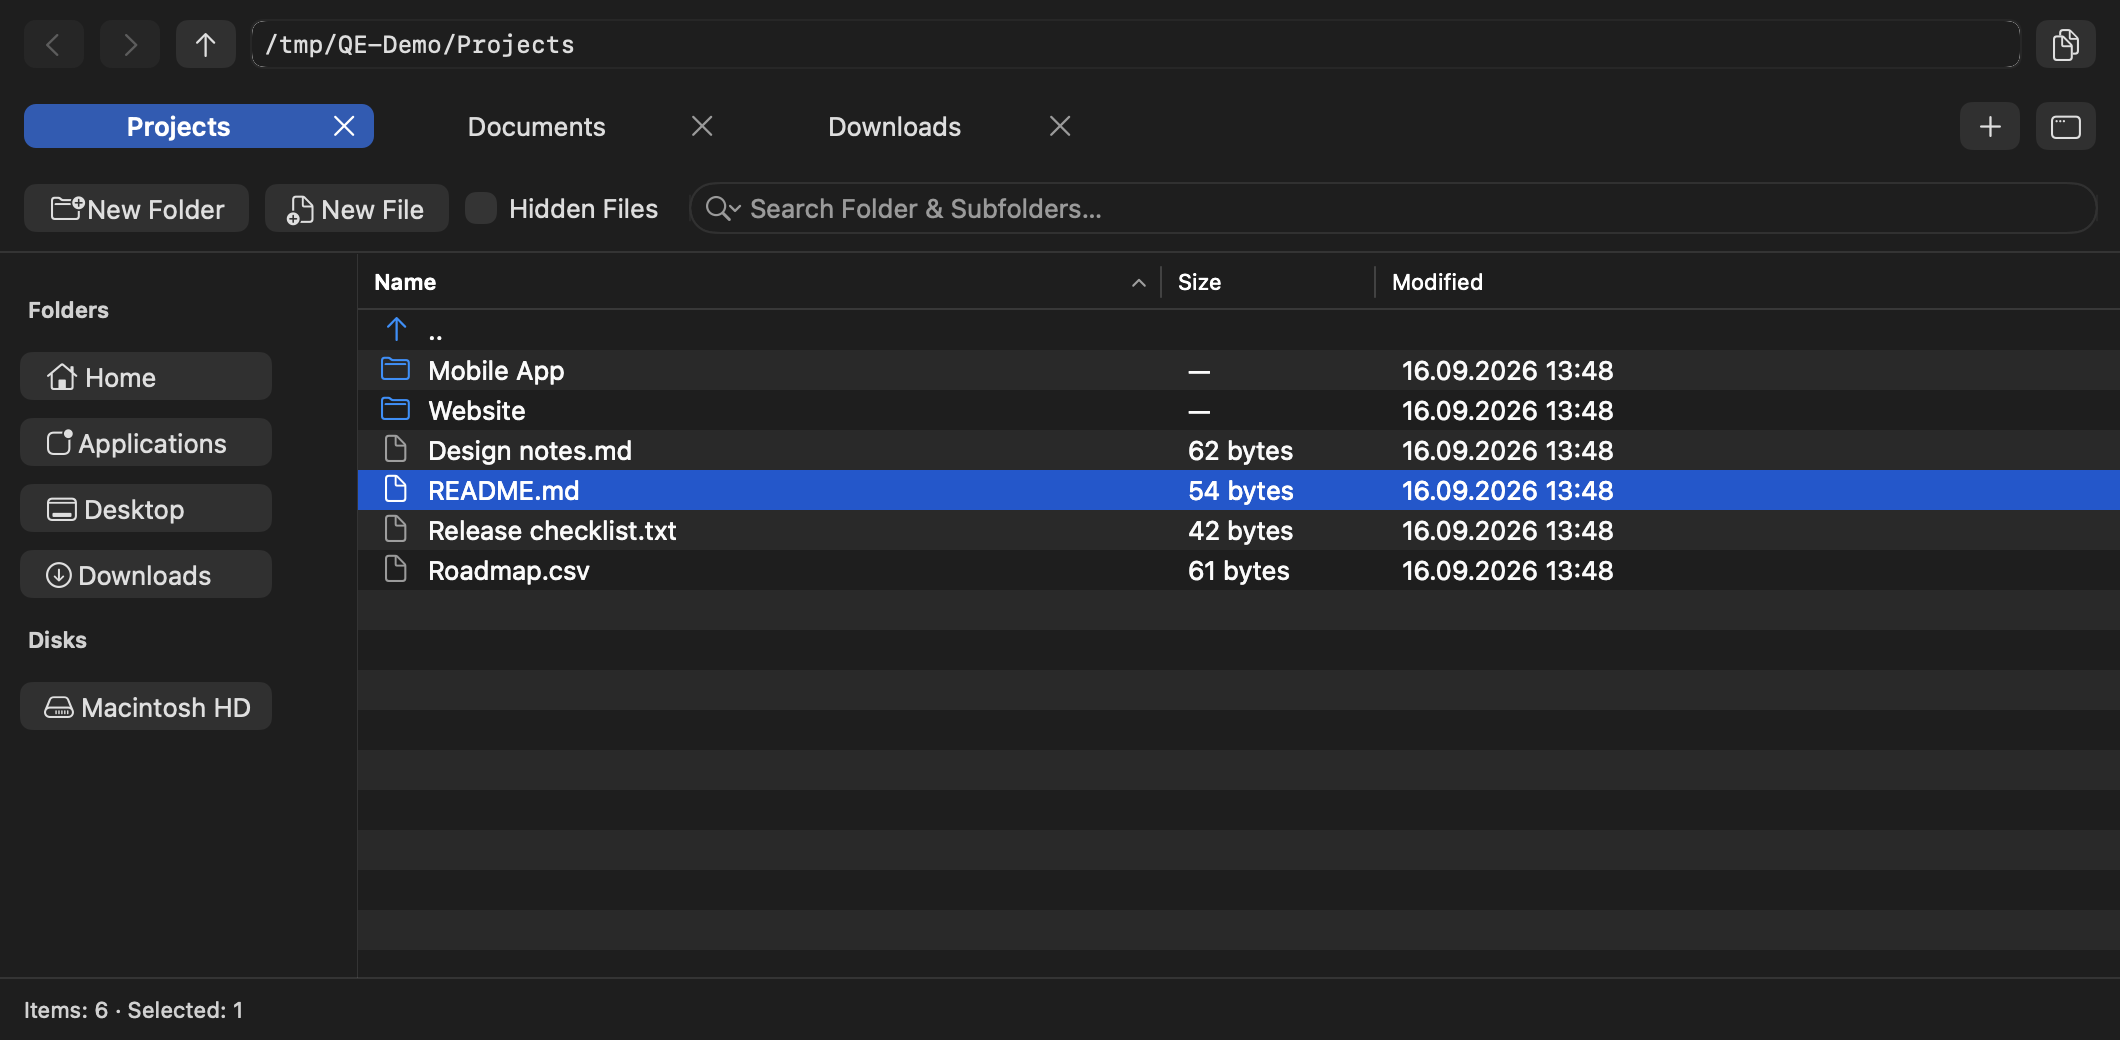
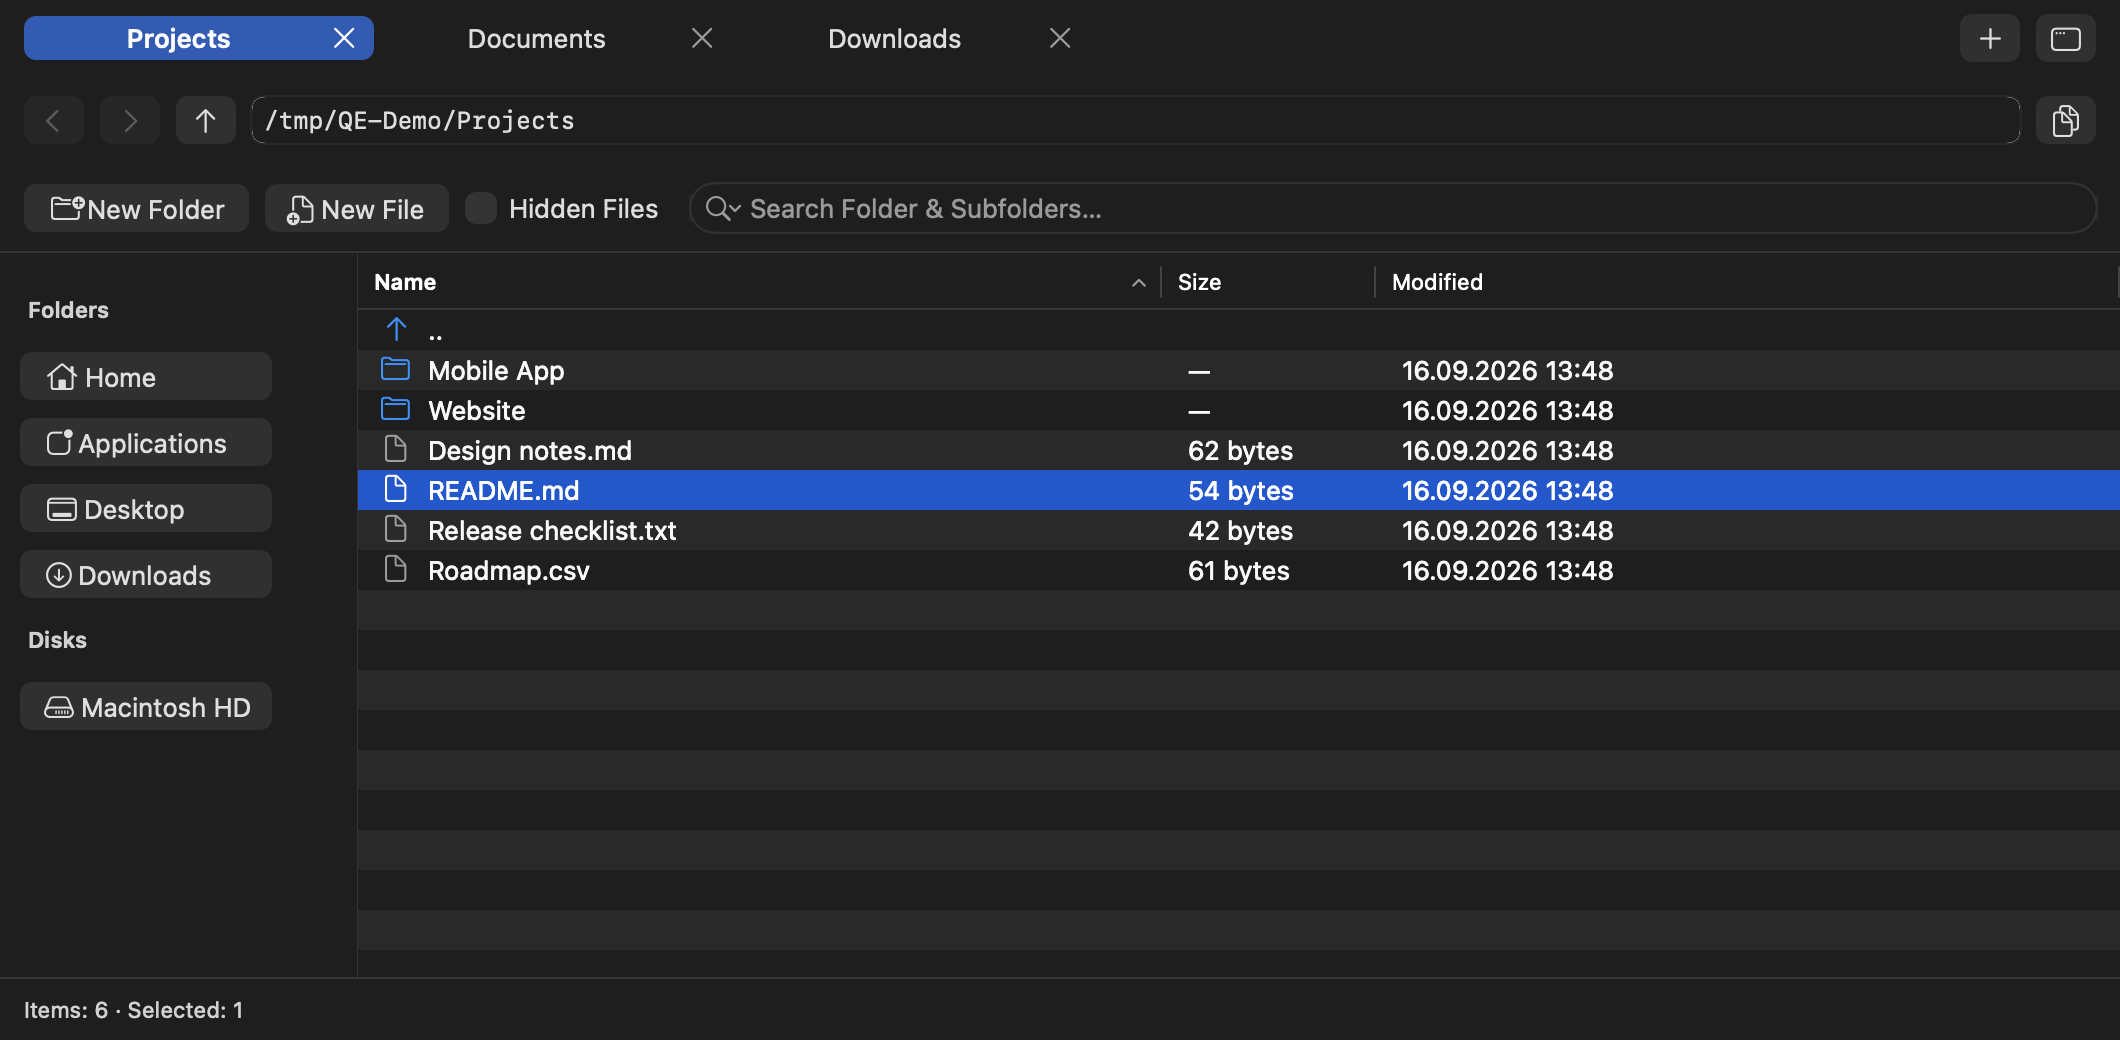
feat: add keyboard navigation and reorder tabs

diff --git a/Sources/QE/UICheckKeyboard.swift b/Sources/QE/UICheckKeyboard.swift
@@ -1,0 +1,87 @@
+#if DEBUG
+import AppKit
+
+extension UICheck {
+    func pressKey(_ key: String, code: UInt16, modifiers: NSEvent.ModifierFlags = [], in pane: BrowserController) {
+        let window = pane.window!
+        let event = NSEvent.keyEvent(with: .keyDown, location: .zero, modifierFlags: modifiers,
+            timestamp: 0, windowNumber: window.windowNumber, context: nil,
+            characters: key, charactersIgnoringModifiers: key, isARepeat: false, keyCode: code)!
+        window.sendEvent(event)
+    }
+
+    func checkKeyboard(_ right: BrowserController, directory: URL) {
+        let window = browser.window!
+        let owner = browser.owner!
+        window.makeFirstResponder(browser.table)
+        let selection = browser.table.selectedRowIndexes
+        pressKey("\t", code: 48, in: browser)
+        expect(owner.activePane === right && window.firstResponder === right.table, "Tab did not focus right pane")
+        expect(NSApp.target(forAction: #selector(BrowserController.copyTo(_:))) as? BrowserController === right,
+               "Tab did not redirect file commands")
+        expect((right.tabsStack.arrangedSubviews.first as? TabButton)?.focusedPane == true &&
+               (browser.tabsStack.arrangedSubviews.first as? TabButton)?.focusedPane == false,
+               "Tab did not update active pane highlighting")
+        pressKey("\t", code: 48, in: right)
+        expect(owner.activePane === browser && window.firstResponder === browser.table, "Tab did not return to left pane")
+        expect(browser.table.selectedRowIndexes == selection, "Tab lost file selection")
+        browser.focusSearch(nil)
+        pressKey("\t", code: 48, in: browser)
+        expect(owner.activePane === browser, "Tab in search switched panes")
+
+        // Exercise every digit in both panes, with distinct tab IDs and one different path.
+        let keys: [(String, UInt16)] = [("1", 18), ("2", 19), ("3", 20), ("4", 21), ("5", 23),
+                                      ("6", 22), ("7", 26), ("8", 28), ("9", 25), ("0", 29)]
+        for pane in [browser, right] {
+            window.makeFirstResponder(pane.table)
+            let original = pane.tabs
+            pane.tabs += (1...9).map { BrowserTab($0 == 9 ? directory.appendingPathComponent("Documents") : pane.current) }
+            pane.rebuildTabs()
+            for (index, key) in keys.enumerated() {
+                pressKey(key.0, code: key.1, modifiers: .control, in: pane)
+                expect(pane.active == index && owner.activePane === pane, "Control + \(key.0) chose wrong tab or pane")
+                expect(pane.otherPane?.active == 0, "Tab shortcut changed the other pane")
+            }
+            expect(pane.current == directory.appendingPathComponent("Documents"), "Control + 0 did not navigate to tenth tab")
+            pane.tabs = original
+            pane.active = 0
+            pane.rebuildTabs()
+            pane.reload()
+            pressKey("0", code: 29, modifiers: .control, in: pane)
+            expect(pane.active == 0 && pane.tabs.count == 1, "Missing tab shortcut changed tabs")
+        }
+        browser.focusPath(nil)
+        let editor = window.firstResponder
+        pressKey("1", code: 18, modifiers: .control, in: browser)
+        expect(window.firstResponder === editor, "Current tab shortcut stole editor focus")
+        window.makeFirstResponder(browser.table)
+        waitUntil({ !self.browser.isLoading && !right.isLoading }) {
+            self.browser.searchField.stringValue = "Notes"
+            self.browser.startSearch(nil)
+            self.waitUntil({ self.browser.search == nil }) {
+                self.pressKey("1", code: 18, modifiers: .control, in: self.browser)
+                self.pressKey("0", code: 29, modifiers: .control, in: self.browser)
+                self.expect(self.browser.isSearch && self.browser.searchField.stringValue == "Notes",
+                            "Current or missing tab shortcut cleared search")
+                self.browser.navigate(directory)
+                self.waitUntil({ !self.browser.isLoading }) {
+                    self.browser.table.deselectAll(nil)
+                    self.pressKey("\r", code: 36, in: self.browser)
+                    self.expect(self.browser.current == directory && NSApp.modalWindow == nil, "Return with no selection changed directory or opened dialog")
+                    self.selectFixture("Photos", in: self.browser)
+                    self.pressKey("\r", code: 36, modifiers: .capsLock, in: self.browser)
+                    self.waitUntil({ !self.browser.isLoading }) {
+                        self.expect(self.browser.current == directory.appendingPathComponent("Photos"), "Return did not open selected folder")
+                        self.browser.table.selectRowIndexes(IndexSet(integer: 0), byExtendingSelection: false)
+                        self.pressKey("\u{3}", code: 76, modifiers: .numericPad, in: self.browser)
+                        self.waitUntil({ !self.browser.isLoading }) {
+                            self.expect(self.browser.current == directory, "Keypad Enter did not open parent row")
+                            self.checkFunctionKeys(right, directory: directory)
+                        }
+                    }
+                }
+            }
+        }
+    }
+}
+#endif

diff --git a/Sources/QE/BrowserController.swift b/Sources/QE/BrowserController.swift
@@ -154,7 +154,6 @@ final class BrowserController: NSViewController, NSTableViewDataSource, NSTableV
         table.style = .plain
         table.target = self; table.doubleAction = #selector(openSelected)
         table.openSelection = { [weak self] in self?.openSelected(nil) }
-        table.renameSelection = { [weak self] in self?.renameSelected(nil) }
         table.goUp = { [weak self] in self?.up() }
         table.setAccessibilityLabel("Files")
         for (key, title, width) in [("name", "Name", 390.0), ("size", "Size", 95.0), ("date", "Modified", 145.0), ("parent", "Folder", 250.0)] {
@@ -201,7 +200,7 @@ final class BrowserController: NSViewController, NSTableViewDataSource, NSTableV
         let footer = inset(horizontal([status, progress, cancelButton]), y: 5)
         let root = WindowBackground(); root.translatesAutoresizingMaskIntoConstraints = false
         let topLine = divider(), bottomLine = divider()
-        let rows = [navigation, tabRow, actions, topLine, body, bottomLine, footer]
+        let rows = [tabRow, navigation, actions, topLine, body, bottomLine, footer]
         for (index, view) in rows.enumerated() {
             view.translatesAutoresizingMaskIntoConstraints = false; root.addSubview(view)
             view.leadingAnchor.constraint(equalTo: root.leadingAnchor).isActive = true

diff --git a/Sources/QE/UICheck.swift b/Sources/QE/UICheck.swift
@@ -385,7 +385,13 @@ final class UICheck {
                     let second = self.browser.current.appendingPathComponent("another.TXT")
                     do { try Data("fixture".utf8).write(to: second) }
                     catch { self.failures.append(error.localizedDescription); self.finish(); return }
-                    self.browser.openFile(second)
+                    self.browser.reload()
+                    self.waitUntil({ !self.browser.isLoading }) {
+                        self.selectFixture(second.lastPathComponent, in: self.browser)
+                        self.browser.window?.makeKeyAndOrderFront(nil)
+                        self.browser.window?.makeFirstResponder(self.browser.table)
+                        self.pressKey("\r", code: 36, in: self.browser)
+                    }
                     self.waitUntil({ received().contains(second.resolvingSymlinksInPath().path) && received().filter { $0 == file.resolvingSymlinksInPath().path }.count >= 2 }) {
                         self.expect(received().filter { $0 == file.resolvingSymlinksInPath().path }.count == 2, "Receiver did not receive both explicit opens")
                         self.browser.launchDocument(file, with: application.deletingLastPathComponent().appendingPathComponent("Missing.app"), remember: true) { error in

diff --git a/Sources/QE/BrowserWindowController.swift b/Sources/QE/BrowserWindowController.swift
@@ -110,6 +110,19 @@ final class BrowserWindow: NSWindow {
         return result
     }
     override func sendEvent(_ event: NSEvent) {
+        if event.type == .keyDown, attachedSheet == nil, NSApp.modalWindow == nil,
+           let owner = windowController as? BrowserWindowController {
+            let modifiers = event.modifierFlags.intersection([.command, .control, .option, .shift])
+            if event.keyCode == 48, modifiers.isEmpty, firstResponder is FileTable,
+               let other = owner.activePane.otherPane, makeFirstResponder(other.table) { return }
+            if modifiers == .control, let key = event.charactersIgnoringModifiers,
+               key.count == 1, let digit = Int(key), (0...9).contains(digit) {
+                let index = digit == 0 ? 9 : digit - 1
+                let pane = owner.activePane
+                if pane.tabs.indices.contains(index), index != pane.active { pane.selectTab(index) }
+                return
+            }
+        }
         if [.leftMouseDown, .rightMouseDown].contains(event.type), let owner = windowController as? BrowserWindowController,
            let pane = owner.panes.first(where: { $0.view.bounds.contains($0.view.convert(event.locationInWindow, from: nil)) }),
            pane !== owner.activePane {

diff --git a/Sources/QE/Controls.swift b/Sources/QE/Controls.swift
@@ -34,7 +34,6 @@ final class ActionButton: NSButton {
 
 final class FileTable: NSTableView {
     var openSelection: (() -> Void)?
-    var renameSelection: (() -> Void)?
     var goUp: (() -> Void)?
     override func menu(for event: NSEvent) -> NSMenu? {
         let row = row(at: convert(event.locationInWindow, from: nil))
@@ -44,7 +43,8 @@ final class FileTable: NSTableView {
         return super.menu(for: event)
     }
     override func keyDown(with event: NSEvent) {
-        if event.keyCode == 36 && event.modifierFlags.intersection(.deviceIndependentFlagsMask).isEmpty { renameSelection?(); return }
+        let modifiers = event.modifierFlags.intersection([.command, .control, .option, .shift])
+        if [36, 76].contains(event.keyCode) && modifiers.isEmpty { openSelection?(); return }
         if event.keyCode == 125 && event.modifierFlags.contains(.command) { openSelection?(); return }
         if event.keyCode == 126 && event.modifierFlags.contains(.command) { goUp?(); return }
         super.keyDown(with: event)

diff --git a/Sources/QE/UICheckSplit.swift b/Sources/QE/UICheckSplit.swift
@@ -80,7 +80,7 @@ extension UICheck {
                     self.saveSplitImage("split-small.png")
                     self.browser.window?.setContentSize(NSSize(width: 1060, height: 680))
                     right.navigate(directory.appendingPathComponent("Photos"))
-                    self.waitUntil({ !right.isLoading }) { self.checkFunctionKeys(right, directory: directory) }
+                    self.waitUntil({ !right.isLoading }) { self.checkKeyboard(right, directory: directory) }
                 }
             }
         }

diff --git a/QA.md b/QA.md
@@ -1,6 +1,6 @@
-# QE 0.6.5 verification
+# QE 0.7.0 verification
 
-Environment: macOS 26.5.1, arm64, Swift 6.3.2. Checked locally on 16.09.2026. Version 0.6.5 passed 18 core scenarios in debug and release, the full UI suite, the release build, and a focused sidebar check against Finder. Earlier failures, historical measurements, and volume checks are identified separately below.
+Environment: macOS 26.5.1, arm64, Swift 6.3.2. Checked locally on 16.09.2026. Version 0.7.0 passed 18 core scenarios in debug and release, the full UI suite including keyboard navigation, and the release build. Earlier focused checks, failures, historical measurements, and volume checks are identified separately below.
 
 ## Current checks
 
@@ -9,11 +9,11 @@ Environment: macOS 26.5.1, arm64, Swift 6.3.2. Checked locally on 16.09.2026. Ve
 | Standalone arm64 application build | Passed |
 | Ad-hoc signature verification with `codesign --verify --strict` | Passed |
 | 18 file-operation and settings scenarios | No failures in debug or release |
-| Applications and Desktop sidebar | With hidden files disabled, the actual QE controllers matched Finder's 75 Applications entries and 21 Utilities entries. Checked Desktop, a disposable app launch, back/forward, tabs, Split navigation and saved pane paths. Report, screenshot and local runner: `.build/qe-007-ui/`. |
+| Applications and Desktop sidebar | Verified in 0.6.5: with hidden files disabled, the actual QE controllers matched Finder's 75 Applications entries and 21 Utilities entries. Checked Desktop, a disposable app launch, back/forward, tabs, Split navigation and saved pane paths. Report, screenshot and local runner: `.build/qe-007-ui/`. |
 | Merged application folders | Fixtures cover duplicate names, Utilities, hidden files, Safari's hidden compatibility symlink, both search scopes, cancellation and exclusion of bundle contents. File operations retain the real source URLs. User Applications and unrelated folders are not merged. |
 | Compact file rows | 20 pt rows with native alternating backgrounds; inspected light/dark renders with one pane and Split. Text, icons, parent row, hidden files, Unicode names, and active/inactive selections remain readable. The focused geometry check passed after correcting it to use icon alignment bounds rather than the larger SF Symbol view frame. Captures and the local runner are in `.build/qe-006-ui/`. |
 | Search on window activation | A focused AppKit check passed for running and completed searches, preserved results and selection, explicit Refresh restarting the search, and normal directories refreshing. It calls the window activation handler directly; the new search assertions failed before the fix. |
-| Debug-only UI checks | Verified in 0.6.3: debug retains the UI runner; release has no `UICheck` symbols or test launch/report/preferences markers. Both 0.6.5 bundle version fields were checked against `VERSION`. |
+| Debug-only UI checks | Verified in 0.6.3: debug retains the UI runner; release has no `UICheck` symbols or test launch/report/preferences markers. Both 0.7.0 bundle version fields were checked against `VERSION`. |
 | Top-level selection | Duplicates, nested folders, similar prefixes, symbolic links, missing ancestors, root paths, ordering, and cancellation checked; 1,728 additional input combinations matched the previous implementation |
 | Extension associations | Persistence, case-insensitive matching, replacement, reset, and exclusion of extensionless files checked |
 | Opening with a chosen application | A temporary receiver confirmed one-time opening, saved opening, and automatic opening of a second `.TXT` file; a launch error preserved the saved choice |
@@ -27,8 +27,10 @@ Environment: macOS 26.5.1, arm64, Swift 6.3.2. Checked locally on 16.09.2026. Ve
 | Split panes | Tab context menu splits an inactive or searching tab; history, selection, and sorting preserved; single-tab split creates an independent tab; menu commands follow pane focus |
 | Split lifecycle | Both panes and focused pane restored; merging preserves all tabs; closing or detaching the last tab collapses the pane; a busy pane cannot be removed or merged |
 | Function keys | F2 renames a fixture; F3 previews the selected file in either pane; F5 copies left to right and F6 moves right to left with content checks; F8 requests Trash confirmation and cancellation preserves the file |
+| Keyboard navigation | Window-dispatched key events verify Tab focus in both directions, pane highlighting, command routing and preserved selection; Tab in search retains normal focus traversal. Control + 1…0 selects all ten tabs in each pane without changing the other pane. Current and absent tab shortcuts preserve search; choosing the current tab preserves editor focus. Return opens a folder with Caps Lock on and a document through its saved application; keypad Enter opens the parent row; empty selection does nothing. |
 | Folder picker tests | Actual F5/F6 dialogs and their selected destinations checked; the in-process runner completes the modal session directly because `NSSavePanel.ok(_:)` is unimplemented on macOS 26; operations and file contents are still checked end to end |
 | Split layout | Window rendered at compact and normal sizes; panes remain usable; active pane distinguished by tab color |
+| Tab and navigation rows | Tabs appear above the path field and navigation buttons. Inspected current single-pane and compact Split renders in `.build/ui-check/window.png` and `.build/ui-check/split-small.png`; full UI suite passed after reordering. |
 | Parent row (`..`) | Navigation, empty directories, filesystem root, tab switching, and sorting checked; copy, rename, and Trash actions unavailable for the parent row |
 | Date and time | Fixed `dd.MM.yyyy HH:mm` format, including a 24-hour afternoon time |
 | English interface | Labels, menus, tooltips, errors, fixtures, and scripts translated; the application declares English as its only supported language |

diff --git a/README.md b/README.md
@@ -88,14 +88,17 @@ Double-clicking a ZIP or 7z archive extracts it into a folder beside the archive
 | New folder | ⌘⇧N |
 | New file | ⌘N |
 | New / close tab | ⌘T / ⌘W |
+| Switch active pane in Split (from the file list) | Tab |
+| Select tab 1–10 in the active pane | Control + 1…9, 0 |
 | New window | ⌘⌥N |
 | Go to path | ⌘L |
 | Search by name | ⌘F |
 | Copy path | ⌘⌥C |
 | Show hidden files | ⌘⇧. |
 | Refresh | ⌘R |
-| Open / go up | ⌘↓ / ⌘↑ |
-| Rename | F2 or Return |
+| Open | Return / Enter or ⌘↓ |
+| Go up | ⌘↑ |
+| Rename | F2 |
 | Quick Look | F3 |
 | Copy to folder | F5 |
 | Move to folder | F6 |
